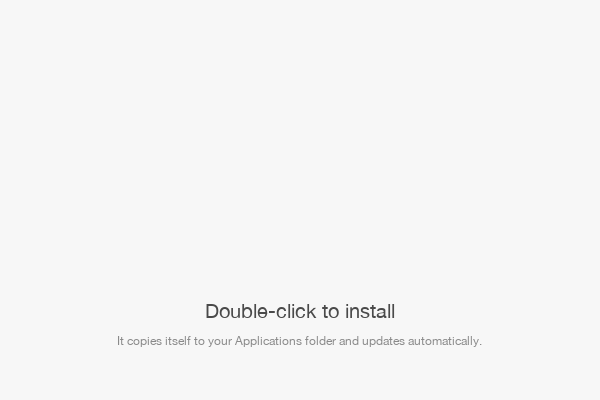
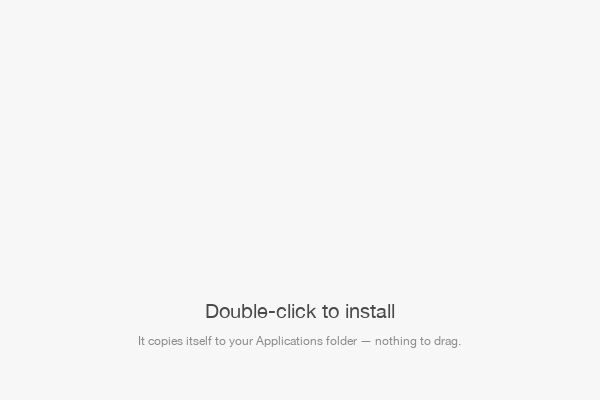
Address Codex review: DMG install races, disk-image check, honest copy
- installDarwinFromMedia now takes the per-account singleton before
  swapping an existing install and holds it across the swap, so a
  double-clicked DMG can no longer race the installed agent's own
  applyVerifiedUpdate; if the lock is already held it leaves the running
  install untouched and tells the user to quit it first.
- runningFromDarwinInstallMedia confirms a /Volumes path is an actual
  attached disk image via `hdiutil info` (fails closed), so launching
  from a USB stick or network share no longer triggers a silent install.
- DMG background copy no longer promises automatic updates, which was
  false for dev/stg builds shipped with silent_update_capable: "false".

Changed region(s): [[0.18, 0.84, 0.81, 0.87]]

diff --git a/relocate_darwin.go b/relocate_darwin.go
@@ -24,6 +24,7 @@ import (
 	"os/exec"
 	"path/filepath"
 	"strings"
+	"sync"
 )
 
 const defaultDarwinBundleName = "AIExpediteTerminal.app"
@@ -217,15 +218,75 @@ func maybeRelocateInstall(_ *Config) bool {
 	return true
 }
 
-// runningFromDarwinInstallMedia reports whether bundle is running from
-// read-only install media rather than an installed location: a mounted disk
-// image under /Volumes, or the randomized App Translocation mirror macOS
-// substitutes when a quarantined app is launched straight out of a DMG (in
-// which case os.Executable never mentions /Volumes at all).
+// acquireAgentInstanceForInstall takes the per-account singleton around a
+// bundle replacement; replaced in tests.
+var acquireAgentInstanceForInstall = acquireAgentInstance
+
+// runHdiutilInfo returns `hdiutil info` output; replaced in tests.
+var runHdiutilInfo = func() (string, error) {
+	out, err := exec.Command("hdiutil", "info").Output()
+	return string(out), err
+}
+
+// runningFromDarwinInstallMedia reports whether bundle is running from install
+// media rather than an installed location.
 func runningFromDarwinInstallMedia(bundle string) bool {
 	lower := strings.ToLower(filepath.ToSlash(bundle))
-	return strings.HasPrefix(lower, "/volumes/") ||
-		strings.Contains(lower, "/apptranslocation/")
+	// App Translocation. macOS has already decided this bundle came out of a
+	// quarantined archive or image and mirrored it onto a randomized read-only
+	// path that vanishes when the app quits — there is nothing to keep running
+	// from and nothing that could ever self-update, whatever the origin was.
+	if strings.Contains(lower, "/apptranslocation/") {
+		return true
+	}
+	// A /Volumes path on its own proves nothing: USB sticks, network shares and
+	// external disks mount there too, and quietly installing an app someone
+	// deliberately runs off portable media is not this code's call. Only an
+	// attached disk image — the release DMG — counts as install media.
+	volume := darwinVolumeRoot(bundle)
+	return volume != "" && darwinVolumeIsDiskImage(volume)
+}
+
+// darwinVolumeIsDiskImage reports whether volume is the mount point of an
+// attached disk image. It fails CLOSED: without proof that the volume is an
+// image, the app keeps running where it is instead of installing itself.
+func darwinVolumeIsDiskImage(volume string) bool {
+	out, err := runHdiutilInfo()
+	if err != nil {
+		fmt.Printf("[install] Cannot tell whether %s is a disk image (%v); leaving the app where it is\n", volume, err)
+		return false
+	}
+	for _, mount := range darwinDiskImageMountPoints(out) {
+		if mount == volume {
+			return true
+		}
+	}
+	return false
+}
+
+// darwinDiskImageMountPoints extracts the mount points of every attached disk
+// image from `hdiutil info` output. Each image lists its partitions as
+// tab-separated entity lines whose last field is the mount point:
+//
+//	/dev/disk4          \tGUID_partition_scheme          \t
+//	/dev/disk4s1        \t48465300-0000-11AA-AA11-...    \t/Volumes/AI Expedite
+func darwinDiskImageMountPoints(hdiutilInfo string) []string {
+	var mounts []string
+	for _, line := range strings.Split(hdiutilInfo, "\n") {
+		line = strings.TrimRight(line, "\r")
+		if !strings.HasPrefix(line, "/dev/") {
+			continue // a key-value line (image-path, writeable, ...)
+		}
+		fields := strings.Split(line, "\t")
+		if len(fields) < 3 {
+			continue
+		}
+		mount := strings.TrimSpace(fields[len(fields)-1])
+		if strings.HasPrefix(mount, "/") {
+			mounts = append(mounts, mount)
+		}
+	}
+	return mounts
 }
 
 // installDarwinFromMedia copies the bundle running off the DMG into
@@ -240,12 +301,37 @@ func installDarwinFromMedia(bundle, exe, userApps string) bool {
 		return false
 	}
 
+	// Replacing an existing install must not race the installed agent, whose
+	// own updater swaps exactly this bundle from applyVerifiedUpdate. The
+	// per-account singleton is that mutual exclusion, and main.go only takes it
+	// AFTER this path runs, so take it here and hold it across the swap. It has
+	// to be released again before the replacement is launched (and on every
+	// error return, or main's own acquisition below would find the lock held by
+	// this very process and exit).
+	release, acquired := acquireAgentInstanceForInstall()
+	releaseOnce := sync.Once{}
+	releaseLock := func() {
+		if acquired {
+			releaseOnce.Do(release)
+		}
+	}
+	defer releaseLock()
+
+	if _, err := os.Stat(dest); err == nil && !acquired {
+		// Another agent owns this install and may be mid-update. Its bundle is
+		// not ours to overwrite, and a second agent must not run alongside it.
+		fmt.Printf("[install] %s is already installed and running; leaving it untouched\n", dest)
+		notifyDarwinInstallSkipped()
+		scheduleDarwinVolumeEject(bundle)
+		return true
+	}
+
 	// Stage beside the destination (same volume, so the move below is a
 	// rename) and only then put it in place: an interrupted copy can never
 	// leave a half-written bundle installed. The pid suffix keeps two
 	// simultaneous installers off each other's staging directory, and the
-	// distinct prefix keeps this pre-singleton path from touching the
-	// .aixupd_* artifacts an in-flight update owns.
+	// prefix stays distinct from the updater's .aixupd_* artifacts so the
+	// startup recovery pass can tell the two apart.
 	staged := fmt.Sprintf("%s.aixinstall_new-%d", dest, os.Getpid())
 	_ = os.RemoveAll(staged)
 	defer os.RemoveAll(staged)
@@ -284,6 +370,9 @@ func installDarwinFromMedia(bundle, exe, userApps string) bool {
 	}
 
 	fmt.Printf("[install] Installed %s -> %s; handing over\n", bundle, dest)
+	// The replacement acquires the same per-account singleton as soon as
+	// LaunchServices starts it, so this process must let go of it first.
+	releaseLock()
 	// Force a new instance: the copy carries the same bundle identifier as
 	// this running process, so a plain `open` would merely activate the image
 	// copy and leave nothing behind once we exit.
@@ -311,19 +400,29 @@ func installDarwinFromMedia(bundle, exe, userApps string) bool {
 // LSUIElement with no window, so without this a double-click on the DMG would
 // look like nothing happened at all.
 func notifyDarwinInstalled(dest string) {
-	title := EnvDisplayName
-	if title == "" {
-		title = "AI Expedite"
-	}
 	shown := dest
 	if home, err := os.UserHomeDir(); err == nil && home != "" &&
 		strings.HasPrefix(dest, home+string(filepath.Separator)) {
 		shown = "~" + strings.TrimPrefix(dest, home)
 	}
-	body := fmt.Sprintf("Installed to %s and running in the menu bar.", shown)
+	notifyDarwin(fmt.Sprintf("Installed to %s and running in the menu bar.", shown))
+}
+
+// notifyDarwin posts a user notification under the channel's display name.
+func notifyDarwin(body string) {
+	title := EnvDisplayName
+	if title == "" {
+		title = "AI Expedite"
+	}
 	script := fmt.Sprintf("display notification %s with title %s",
 		appleScriptString(body), appleScriptString(title))
 	_ = exec.Command("osascript", "-e", script).Run()
+}
+
+// notifyDarwinInstallSkipped explains why double-clicking the image appeared to
+// do nothing: a running agent owns the install and must be quit first.
+func notifyDarwinInstallSkipped() {
+	notifyDarwin("Already installed and running. Quit it from the menu bar first to install this copy.")
 }
 
 // appleScriptString quotes s as an AppleScript string literal.

diff --git a/relocate_darwin_test.go b/relocate_darwin_test.go
@@ -3,6 +3,7 @@
 package main
 
 import (
+	"errors"
 	"fmt"
 	"os"
 	"path/filepath"
@@ -160,13 +161,43 @@ func TestCurrentDarwinBundleName_Fallback(t *testing.T) {
 	}
 }
 
+// hdiutilInfoFixture is `hdiutil info` output with one attached image mounted
+// at /Volumes/AI Expedite. /Volumes/USB below is deliberately absent: an
+// ordinary mounted volume never appears here.
+const hdiutilInfoFixture = "framework       : 594.30.1\n" +
+	"driver          : 594.30.1\n" +
+	"================================================\n" +
+	"image-path      : /Users/test/Downloads/aiexpedite-terminal-darwin-arm64.dmg\n" +
+	"image-type      : read-only disk image\n" +
+	"writeable       : false\n" +
+	"/dev/disk4\tGUID_partition_scheme\t\n" +
+	"/dev/disk4s1\t48465300-0000-11AA-AA11-00306543ECAC\t/Volumes/AI Expedite\n"
+
+func stubHdiutilInfo(t *testing.T, out string, err error) {
+	t.Helper()
+	previous := runHdiutilInfo
+	runHdiutilInfo = func() (string, error) { return out, err }
+	t.Cleanup(func() { runHdiutilInfo = previous })
+}
+
+func TestDarwinDiskImageMountPoints(t *testing.T) {
+	got := darwinDiskImageMountPoints(hdiutilInfoFixture)
+	if len(got) != 1 || got[0] != "/Volumes/AI Expedite" {
+		t.Fatalf("expected the image mount point only, got %q", got)
+	}
+}
+
 func TestRunningFromDarwinInstallMedia(t *testing.T) {
+	stubHdiutilInfo(t, hdiutilInfoFixture, nil)
 	cases := []struct {
 		bundle string
 		want   bool
 	}{
 		{"/Volumes/AI Expedite/AIExpediteTerminal.app", true},
 		{"/private/var/folders/x1/T/AppTranslocation/2B7A/d/AIExpediteTerminal.app", true},
+		// A USB stick or network share is NOT install media: an app someone
+		// deliberately runs off portable media must be left where it is.
+		{"/Volumes/USB/Tools/AIExpediteTerminal.app", false},
 		{"/Users/test/Applications/AIExpediteTerminal.app", false},
 		{"/Applications/AIExpediteTerminal.app", false},
 		{"/Users/test/Downloads/AIExpediteTerminal.app", false},
@@ -175,6 +206,16 @@ func TestRunningFromDarwinInstallMedia(t *testing.T) {
 		if got := runningFromDarwinInstallMedia(c.bundle); got != c.want {
 			t.Errorf("runningFromDarwinInstallMedia(%q) = %v, want %v", c.bundle, got, c.want)
 		}
+	}
+}
+
+func TestRunningFromDarwinInstallMediaFailsClosedWithoutHdiutil(t *testing.T) {
+	stubHdiutilInfo(t, "", errors.New("hdiutil unavailable"))
+	if runningFromDarwinInstallMedia("/Volumes/AI Expedite/AIExpediteTerminal.app") {
+		t.Fatal("an unprovable volume must not be treated as install media")
+	}
+	if !runningFromDarwinInstallMedia("/private/var/folders/x1/T/AppTranslocation/2B7A/d/X.app") {
+		t.Fatal("a translocated bundle is install media regardless of hdiutil")
 	}
 }
 
@@ -211,7 +252,22 @@ func stubDarwinInstallTools(t *testing.T, openExit int) string {
 	write("open", fmt.Sprintf("#!/bin/sh\necho \"$@\" >> %q\nexit %d\n", openLog, openExit))
 
 	t.Setenv("PATH", binDir+string(os.PathListSeparator)+os.Getenv("PATH"))
+	stubAgentInstanceForInstall(t, true)
 	return openLog
+}
+
+// stubAgentInstanceForInstall replaces the per-account singleton with an
+// in-memory one so tests never touch the real lock (or contend with an agent
+// actually running on the machine). It reports whether the release ran.
+func stubAgentInstanceForInstall(t *testing.T, acquired bool) *bool {
+	t.Helper()
+	released := false
+	previous := acquireAgentInstanceForInstall
+	acquireAgentInstanceForInstall = func() (func(), bool) {
+		return func() { released = true }, acquired
+	}
+	t.Cleanup(func() { acquireAgentInstanceForInstall = previous })
+	return &released
 }
 
 // newFakeDarwinBundle creates <dir>/<name>/Contents/MacOS/<binary> and returns
@@ -346,5 +402,84 @@ func TestInstallDarwinFromMediaRestoresPreviousInstallOnFailedLaunch(t *testing.
 func TestAppleScriptStringEscapes(t *testing.T) {
 	if got := appleScriptString(`say "hi"\now`); got != `"say \"hi\"\\now"` {
 		t.Fatalf("unexpected AppleScript literal %s", got)
+	}
+}
+
+func TestInstallDarwinFromMediaReleasesSingletonBeforeHandingOver(t *testing.T) {
+	home := t.TempDir()
+	t.Setenv("HOME", home)
+	stubDarwinInstallTools(t, 0)
+	released := stubAgentInstanceForInstall(t, true)
+
+	media := filepath.Join(t.TempDir(), "AppTranslocation", "d")
+	if err := os.MkdirAll(media, 0o755); err != nil {
+		t.Fatal(err)
+	}
+	bundle, exe := newFakeDarwinBundle(t, media, "new")
+
+	if !installDarwinFromMedia(bundle, exe, filepath.Join(home, "Applications")) {
+		t.Fatal("install should hand over")
+	}
+	// The replacement acquires the same lock as soon as LaunchServices starts
+	// it, so it must be free by the time `open` runs.
+	if !*released {
+		t.Fatal("the singleton must be released before the replacement is launched")
+	}
+}
+
+func TestInstallDarwinFromMediaLeavesRunningInstallUntouched(t *testing.T) {
+	home := t.TempDir()
+	t.Setenv("HOME", home)
+	openLog := stubDarwinInstallTools(t, 0)
+	stubAgentInstanceForInstall(t, false) // another agent owns this install
+
+	userApps := filepath.Join(home, "Applications")
+	if err := os.MkdirAll(userApps, 0o755); err != nil {
+		t.Fatal(err)
+	}
+	_, installedExe := newFakeDarwinBundle(t, userApps, "running")
+
+	media := filepath.Join(t.TempDir(), "AppTranslocation", "d")
+	if err := os.MkdirAll(media, 0o755); err != nil {
+		t.Fatal(err)
+	}
+	bundle, exe := newFakeDarwinBundle(t, media, "new")
+
+	if !installDarwinFromMedia(bundle, exe, userApps) {
+		t.Fatal("the running install is authoritative, so this process must exit")
+	}
+
+	// A running agent may be mid-update on exactly this bundle: replacing it
+	// here could overwrite a verified update after its rollback copy is gone.
+	got, err := os.ReadFile(installedExe)
+	if err != nil {
+		t.Fatal(err)
+	}
+	if string(got) != "running" {
+		t.Fatalf("the running install must not be replaced, got %q", got)
+	}
+	if _, err := os.Stat(openLog); !os.IsNotExist(err) {
+		t.Fatal("no second agent may be launched alongside the running one")
+	}
+}
+
+func TestInstallDarwinFromMediaInstallsWhenNothingIsInstalledYet(t *testing.T) {
+	home := t.TempDir()
+	t.Setenv("HOME", home)
+	stubDarwinInstallTools(t, 0)
+	stubAgentInstanceForInstall(t, false) // an agent runs from somewhere else
+
+	media := filepath.Join(t.TempDir(), "AppTranslocation", "d")
+	if err := os.MkdirAll(media, 0o755); err != nil {
+		t.Fatal(err)
+	}
+	bundle, exe := newFakeDarwinBundle(t, media, "new")
+	userApps := filepath.Join(home, "Applications")
+
+	if !installDarwinFromMedia(bundle, exe, userApps) {
+		t.Fatal("a fresh install destroys nothing and must still proceed")
+	}
+	if _, err := os.Stat(filepath.Join(userApps, defaultDarwinBundleName)); err != nil {
+		t.Fatalf("expected a fresh install at %s: %v", userApps, err)
 	}
 }

diff --git a/scripts/generate-dmg-background.py b/scripts/generate-dmg-background.py
@@ -8,6 +8,10 @@ relocate_darwin.go). The background therefore tells the user to double-click
 the app rather than to drag it, and must not draw an arrow to a drop target
 that no longer exists.
 
+One image ships on every channel, and dev/stg builds are deliberately NOT
+silent-update capable (silent_update_capable: "false" in release-nonprod.yml),
+so the copy must not promise automatic updates.
+
     python aiexpedite-local-terminal/scripts/generate-dmg-background.py
 
 Creates:
@@ -38,7 +42,7 @@ ICON_CENTER_Y = 190
 ICON_SIZE = 100
 
 HEADLINE_TEXT = "Double-click to install"
-SUBTEXT_TEXT = "It copies itself to your Applications folder and updates automatically."
+SUBTEXT_TEXT = "It copies itself to your Applications folder \u2014 nothing to drag."
 
 FONT_CANDIDATES = [
     "/System/Library/Fonts/HelveticaNeue.ttc",
